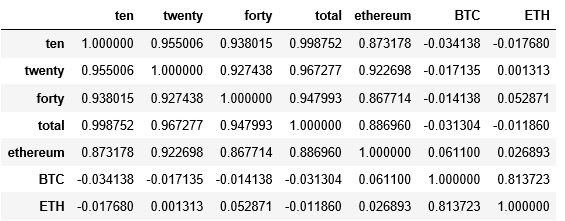
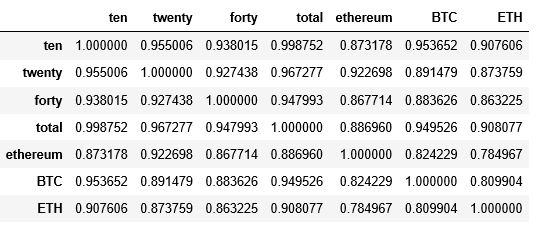
fixed data error

diff --git a/index-view/src/main/resources/templates/blog_5_20_2018.html b/index-view/src/main/resources/templates/blog_5_20_2018.html
@@ -63,7 +63,7 @@ function topFunction() {
 <div class="containerbody">
 <br/><br/>
     <h1 align = "center">Weekly report for week of 5/13/2018</h1>
-    <p>Our first attempt at a weekly report on metrics for the digital asset class. Graphics will improve over the next few versions, thanks for bearing with us. Also we unfortunately have some missing data for this week, we will backfill shortly but were unable to at this time. Feedback greatly appreciated!</p>
+    <p>Our first weekly report on metrics for the digital asset class. Graphics will improve over the next few versions. Thanks for bearing with us. Feedback greatly appreciated!</p>
 
     <h2 align = "center">Returns of Crytpo Benchmarks</h2>
 
@@ -89,15 +89,15 @@ function topFunction() {
         </tr>
         <tr>
         <td>BTC</td>
-        <td>-2.07%</td>
-        <td>-6.04%</td>
-        <td>-36.57%</td>
+        <td>-2.81%</td>
+        <td>-10.80%</td>
+        <td>-40.44%</td>
         </tr>
         <tr>
         <td>ETH</td>
-        <td>-0.94%</td>
-        <td>-7.71%</td>
-        <td>-4.46%</td>
+        <td>-1.82%</td>
+        <td>3.88%</td>
+        <td>-6.01%</td>
         </tr>
         </table>
        </div>
@@ -111,7 +111,7 @@ function topFunction() {
     </div>
 
     <h2 align = "center">Bletchley 10 Constituents</h2>
-    <p>Contribution is the portion of the return for the Bletchley 10 Index attributable to each coin, currently some error as we didn't have accurate weights at the beginning of this week saved.</p>
+    <p>Contribution is the portion of the return for the Bletchley 10 Index attributable to each coin, currently there is some error as we didn't have accurate weights at the beginning of this week saved. Because of this the sum of the contributions doesn't equal the weekly return on the 10 index.</p>
 
         <div style="overflow-x:auto;width:50%;padding-left:25%;padding-right:25%;align-content: center;">
 <table id="weightsequal">
@@ -123,63 +123,63 @@ function topFunction() {
         </tr>
         <tr>
         <td>BTC</td>    
-        <td>-2.08%</td>
+        <td>-2.81%</td>
         <td>52.25%</td>
-        <td>-1.09%</td>
+        <td>-1.47%</td>
         </tr>
         <tr>
         <td>ETH</td>
-        <td>-0.94%</td>
+        <td>-1.82%</td>
         <td>19.41%</td>
-        <td>-0.18%</td>
+        <td>-0.35%</td>
         </tr>
         <tr>
         <td>XRP</td>
-        <td>-3.88%</td>
+        <td>-1.30%</td>
         <td>10.52%</td>
-        <td>-0.41%</td>
+        <td>-0.14%</td>
         </tr>
         <tr>
         <td>BCH</td>
-        <td>-12.59%</td>
+        <td>-19.30%</td>
         <td>5.68%</td>
-        <td>-0.72%</td>
+        <td>-1.10%</td>
         </tr>
         <tr>
         <td>XLM</td>
-        <td>-10.67%</td>
+        <td>-12.50%</td>
         <td>2.43%</td>
-        <td>-0.26%</td>
+        <td>-0.30%</td>
         </tr>
         <tr>
         <td>LTC</td>
-        <td>-3.05%</td>
+        <td>-4.71%</td>
         <td>2.94%</td>
-        <td>-0.09%</td>
+        <td>-0.14%</td>
         </tr>
         <tr>
         <td>ADA</td>
-        <td>-6.65%</td>
+        <td>-8.04%</td>
         <td>2.53%</td>
-        <td>-0.17%</td>
+        <td>-0.20%</td>
         </tr>
         <tr>
         <td>DASH</td>
-        <td>-3.50%</td>
+        <td>-4.79%</td>
         <td>1.24%</td>
-        <td>2%</td>
+        <td>-0.06%</td>
         </tr>
         <tr>
         <td>EOS</td>
-        <td>-3.83%</td>
+        <td>-5.94%</td>
         <td>2.66%</td>
-        <td>-0.04%</td>
+        <td>-0.16%</td>
         </tr>
         <tr>
         <td>ZEC</td>
-        <td>34.06%</td>
+        <td>39.62%</td>
         <td>0.35%</td>
-        <td>0.12%</td>
+        <td>0.14%</td>
         </tr>
         </table>
        </div>
